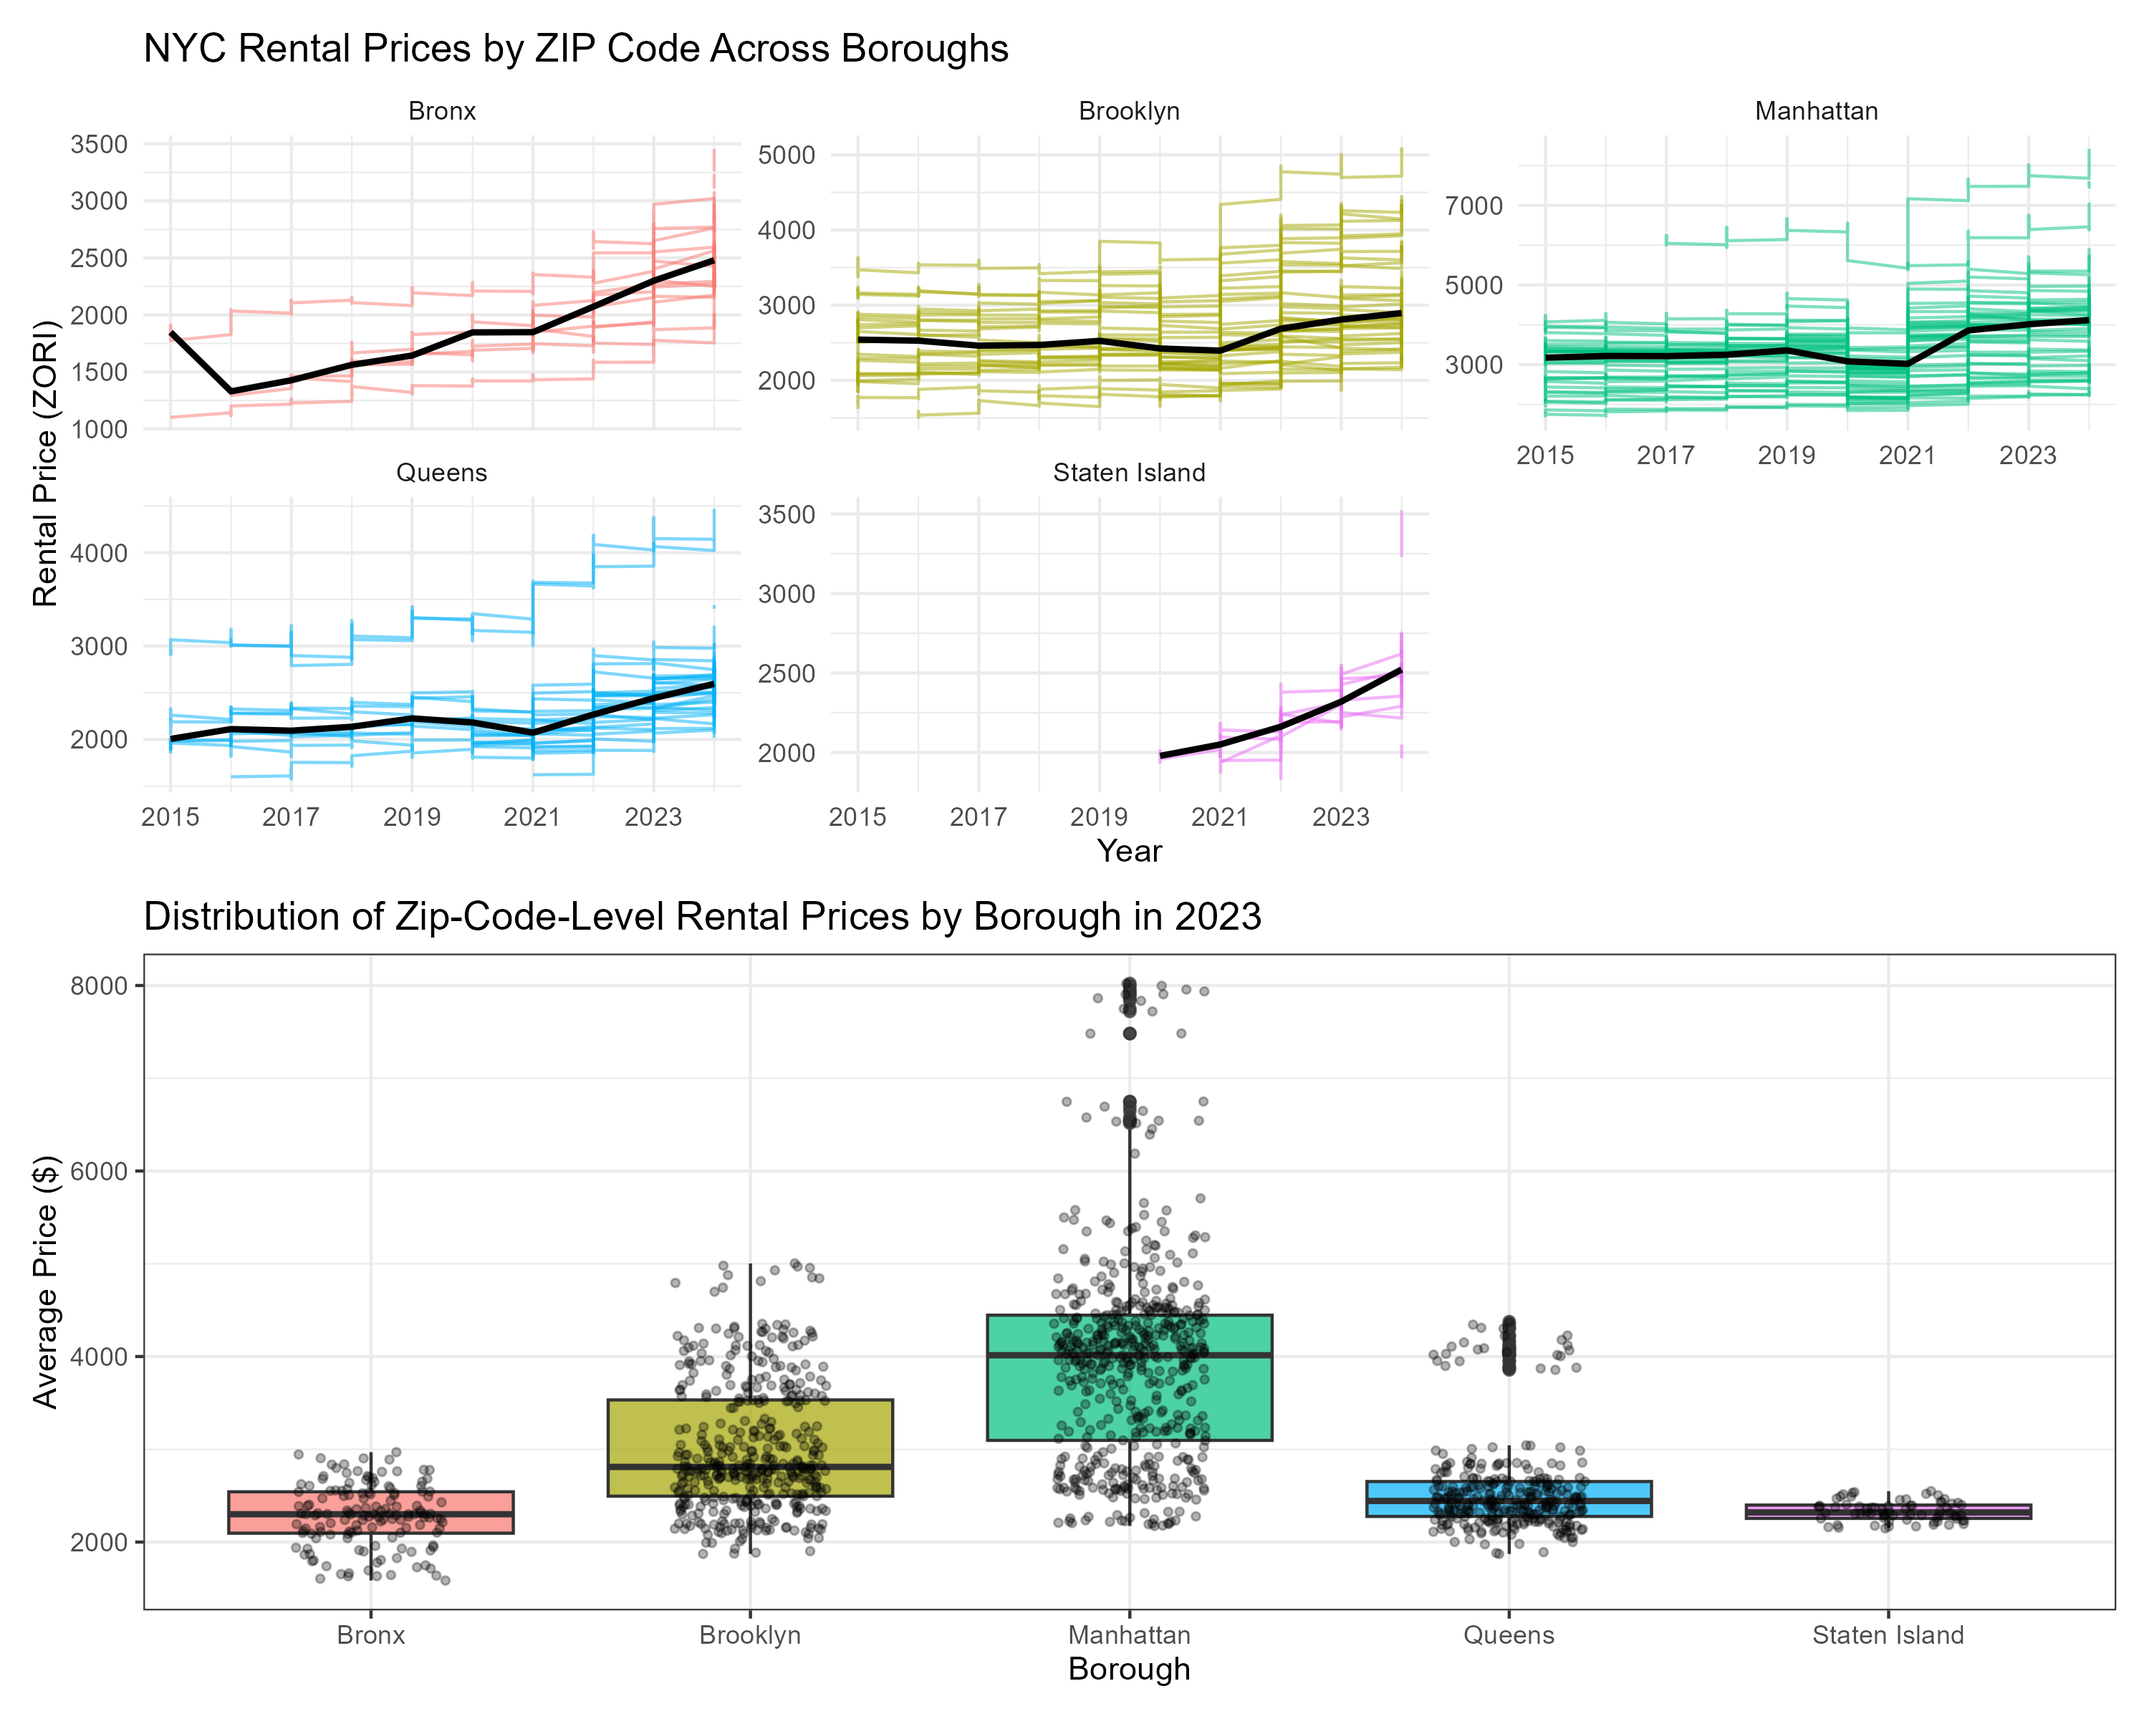
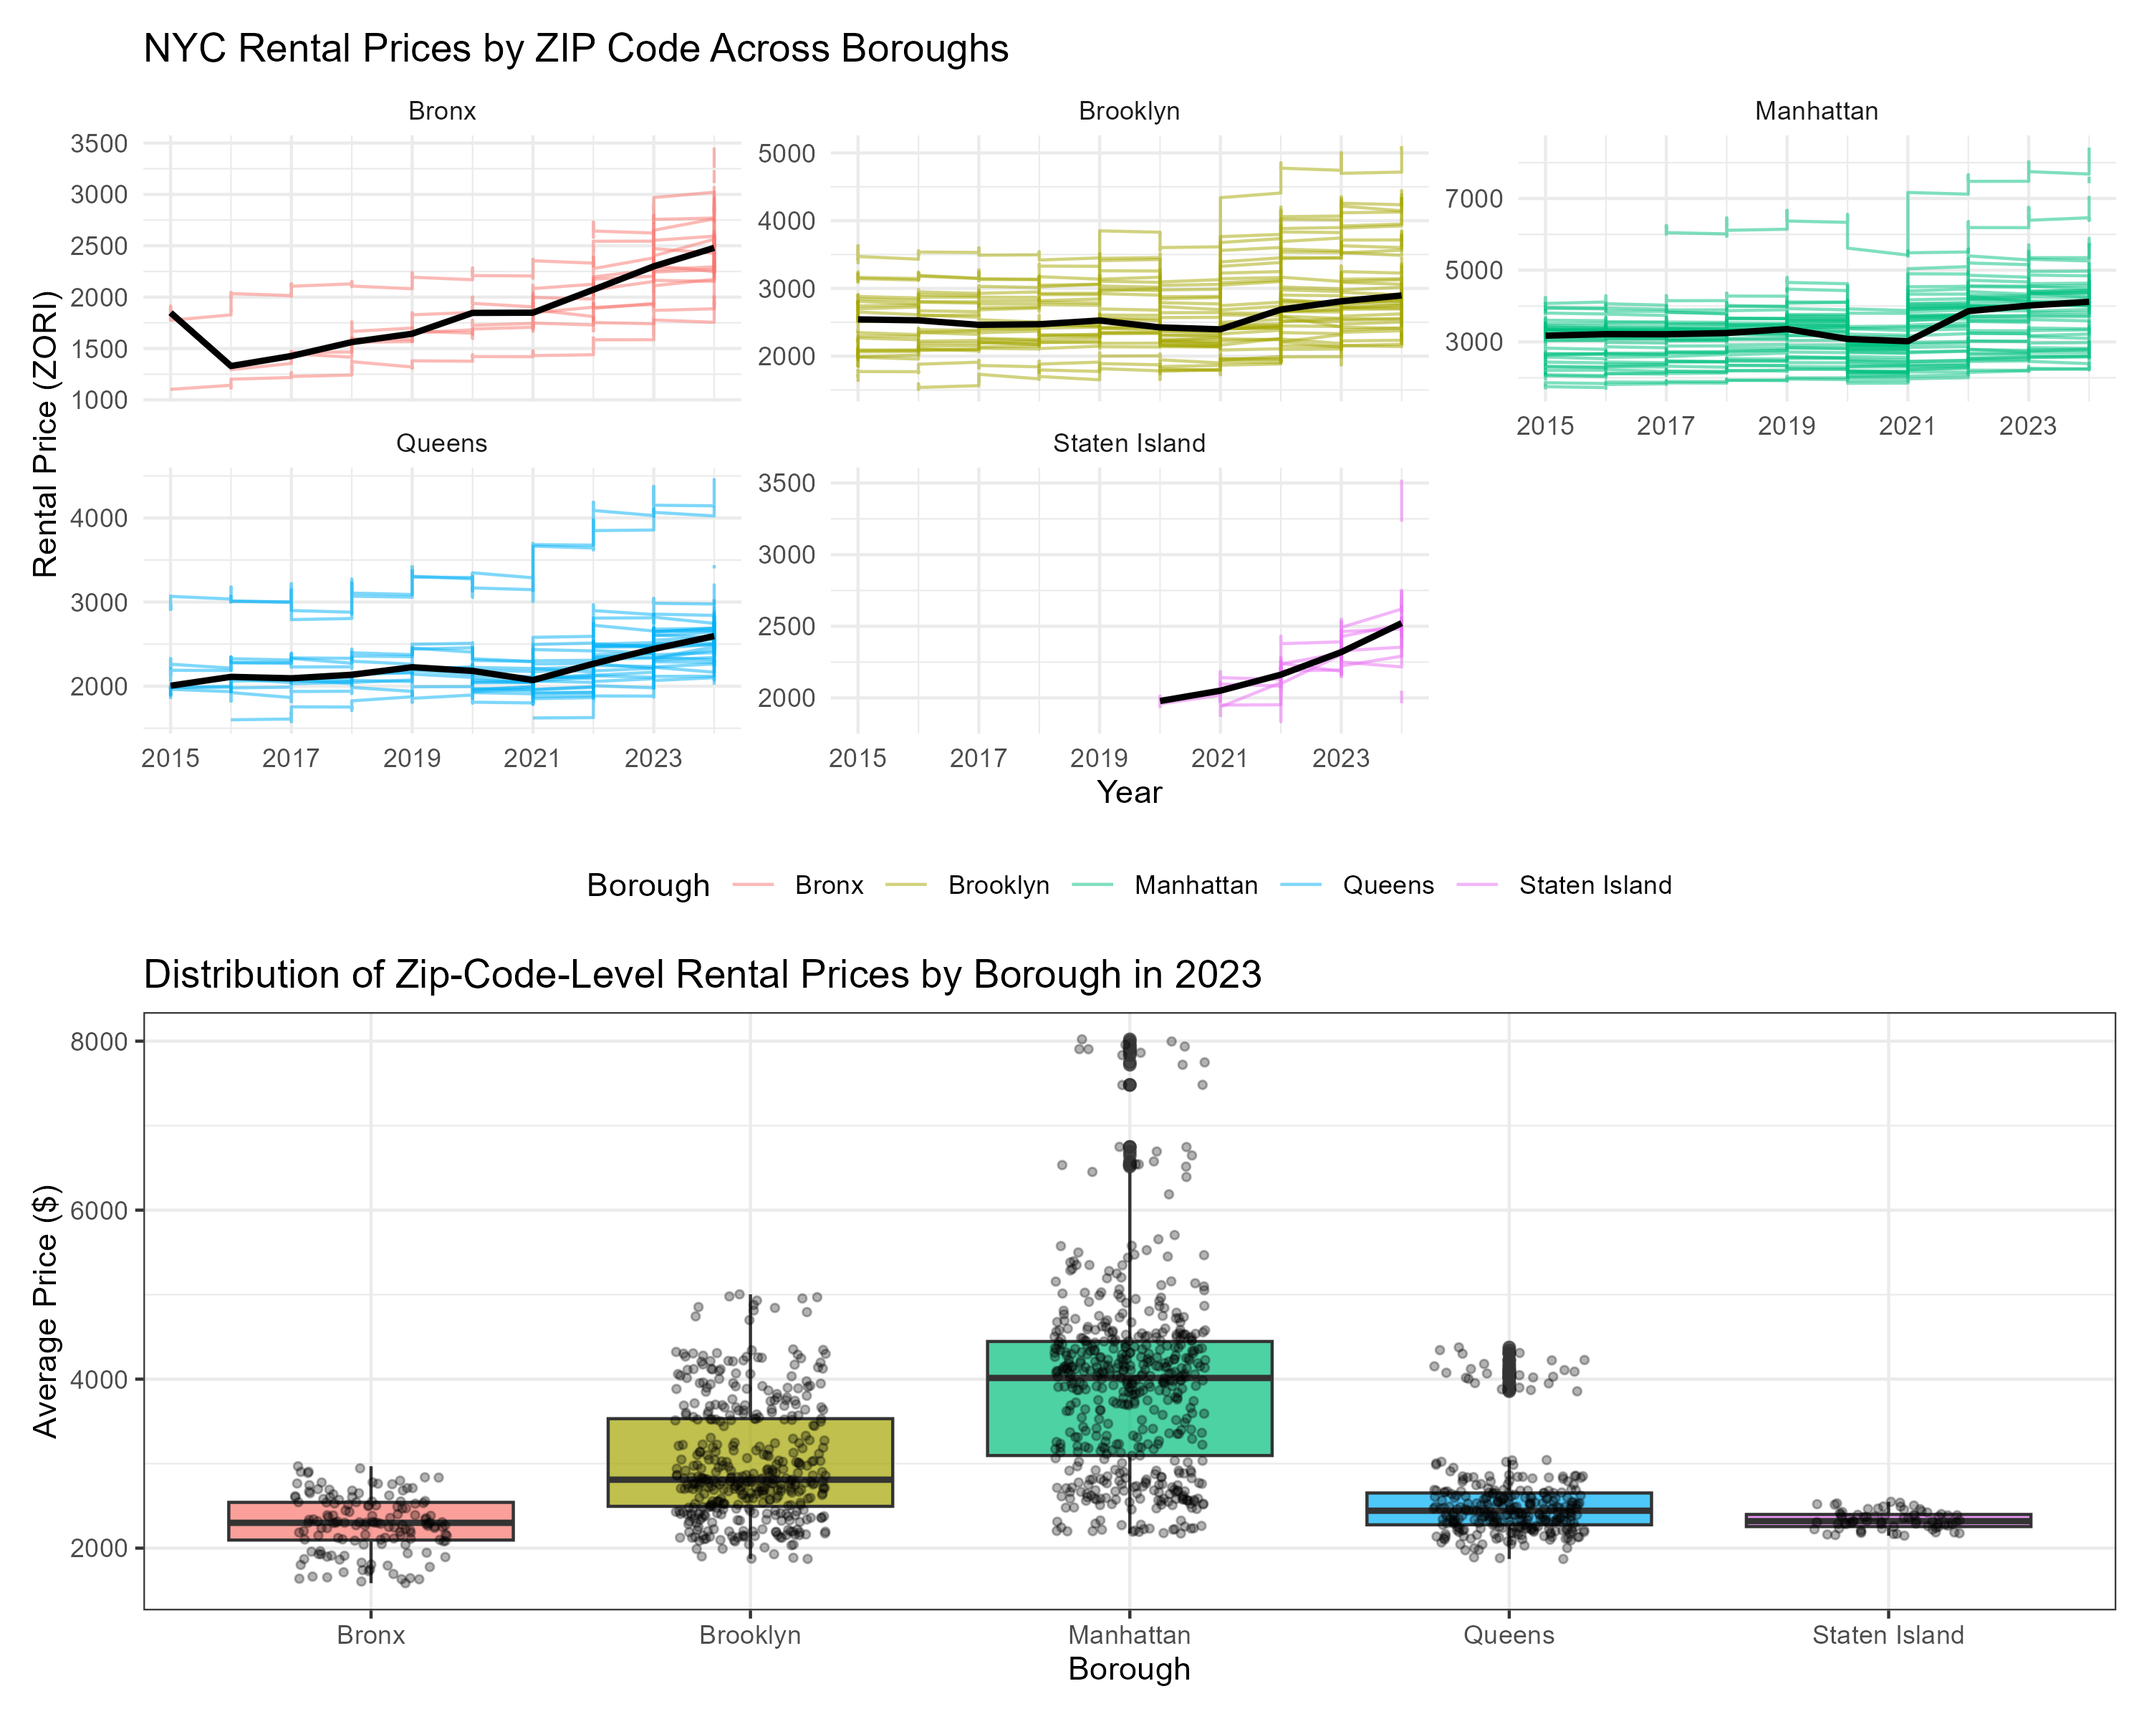
Added legend for Question 2

diff --git a/p8105_hw3_mb5357.md b/p8105_hw3_mb5357.md
@@ -322,7 +322,7 @@ plot_1 <- combined_df |>
     color = "Borough"
   ) +
   theme_minimal() +
-    theme(legend.position = "none")
+  theme(legend.position = "bottom")
 ```
 
     ## Warning: Using `size` aesthetic for lines was deprecated in ggplot2 3.4.0.
